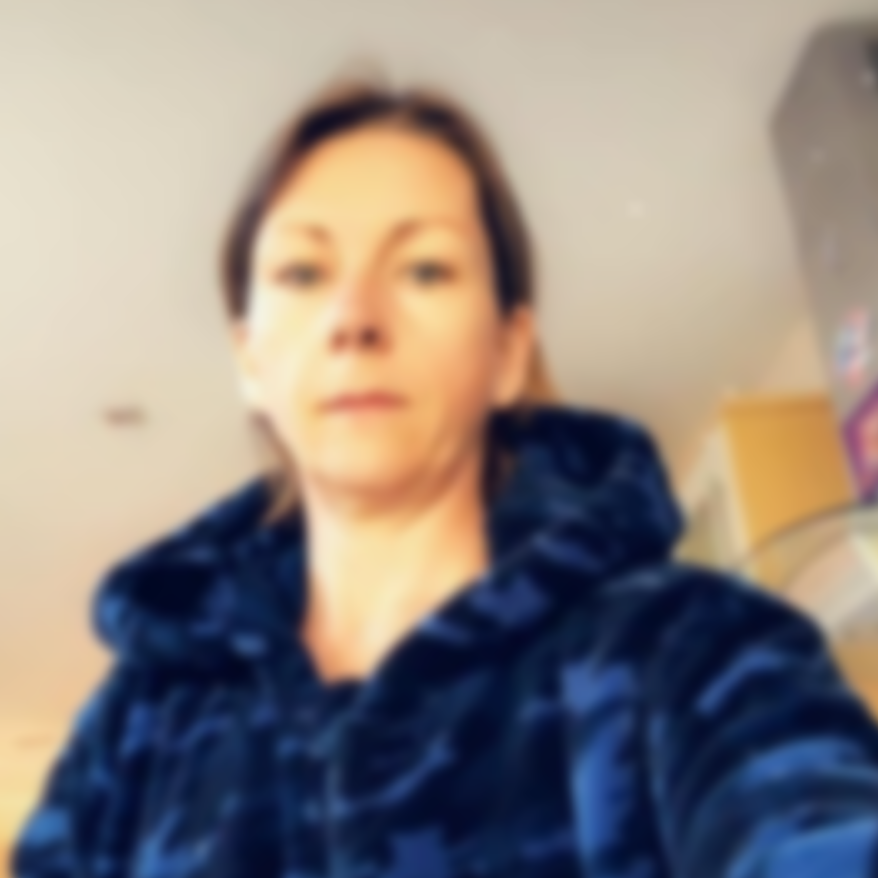
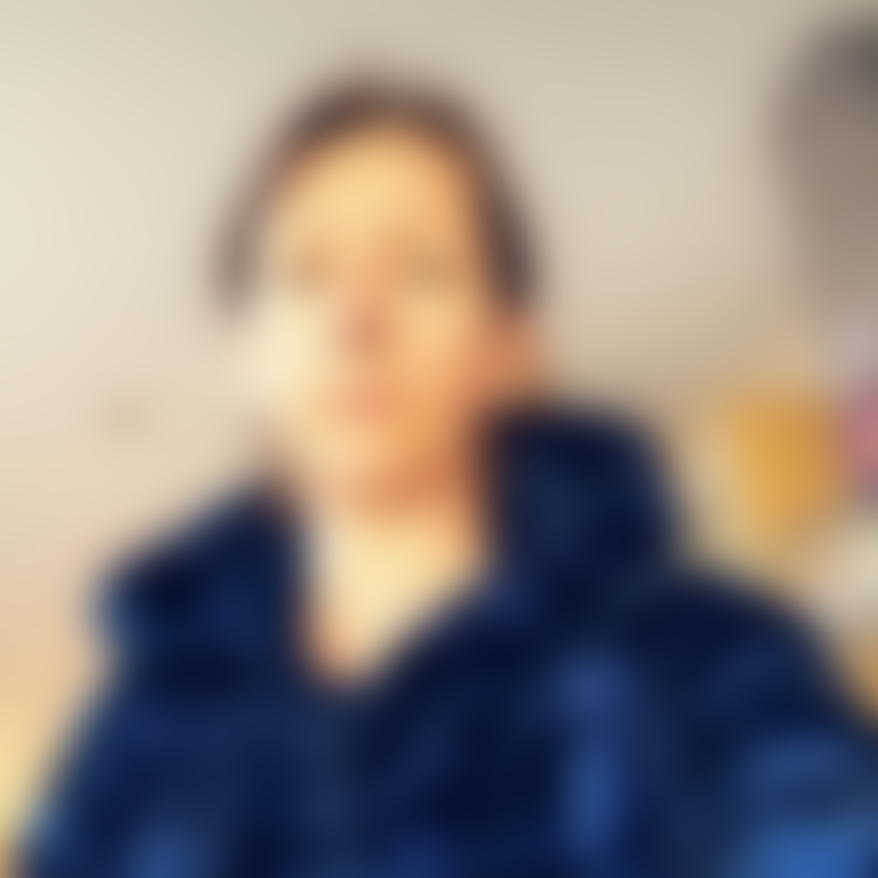
Submission data update
+ images blur

diff --git a/src/calc-pages/Finish.js b/src/calc-pages/Finish.js
@@ -14,14 +14,15 @@ export default function Finish(props) {
         <div>
           Based on the information provided, your body needs around{" "}
           {props.DEE.toLocaleString("en-UK")} calories per day, or{" "}
-          {(props.DEE * 7).toLocaleString("en-UK")} per week to maintain its
+          {(props.DEE * 7).toLocaleString("en-UK")} per week, to maintain its
           current weight.
-        </div>
+        </div>{" "}
         <br />
-        <div>
-          <p>
+        <div className="test">
+          <div>
             To achieve a weekly deficit of 3,500 calories you should aim for:
-          </p>
+          </div>
+          <br />
           <div>
             <div className="data">
               {((props.DEE - 500) * 7).toLocaleString("en-UK")}
@@ -32,7 +33,28 @@ export default function Finish(props) {
             <div className="data">
               {(props.DEE - 500).toLocaleString("en-UK")}
             </div>{" "}
-            calories per day on <em>average</em>.
+            calories per day <em>on average</em>.
+          </div>
+          <br />
+          <div>
+            Using a weekly calorie deficit means you be flexible about what you
+            eat and when you eat it. You can plan lower calorie days to make up
+            for known higher calorie days that go hand in hand with social
+            events and other such higher calorie pressures.
+          </div>
+          <div
+            style={{ display: "flex", alignSelf: "center", padding: "1rem" }}
+          >
+            <a
+              href="https://performancephysique.co.uk/4-weeks-4-kilos/"
+              target="_blank"
+              rel="noopener noreferrer"
+              style={{ all: "unset" }}
+            >
+              <button className="question-option" style={{ border: "unset" }}>
+                Learn more
+              </button>
+            </a>
           </div>
         </div>
       </div>

diff --git a/src/index.css b/src/index.css
@@ -137,8 +137,8 @@
 }
 
 .testimonial-img {
-  border-radius: 50px;
-  height: 100px;
+  border-radius: 25px;
+  height: 50px;
   margin: 0rem;
   width: auto;
 }
@@ -277,7 +277,7 @@
   display: flex;
   flex-direction: column;
   align-items: center;
-  padding: 2rem;
+  padding: 1rem;
   animation: fadein 1s ease-in-out 0.3s both;
 }
 
@@ -368,7 +368,7 @@
   position: relative;
   box-sizing: border-box;
   grid-template-columns: 2fr 1fr;
-  grid-template-rows: 8rem auto auto 7rem;
+  grid-template-rows: 8rem auto auto auto;
   margin: 1rem;
   display: flex;
   justify-content: space-between;
@@ -605,6 +605,14 @@
   font-size: large;
 }
 
+.test {
+  display: flex;
+  flex-direction: column;
+  background-color: var(--black);
+  padding: 2rem;
+  border-radius: 25px;
+}
+
 /* mobile */
 
 @media screen and (max-width: 850px) {
@@ -685,14 +693,6 @@
     width: 100px;
   }
 
-  .result-container {
-    grid-column-start: 1;
-    grid-column-end: -1;
-    display: flex;
-    flex-direction: column;
-    align-items: center;
-  }
-
   .result-container p {
     font-size: 0.8rem;
   }
@@ -705,6 +705,8 @@
     height: 100px;
     width: 200px;
   }
+
+  .small {flex-direction: column;}
 }
 
 /* section animation */

diff --git a/src/calc-pages/Results.js b/src/calc-pages/Results.js
@@ -3,12 +3,9 @@ import { useNavigate } from "react-router-dom";
 
 import axios from "axios";
 
-// const FORMSPARK_FORM_ID = "FUX0nqmK";  //  ALI //
 const FORMSPARK_FORM_ID = "odG1JqtU"; //  ARJ //
 
-// const formSparkUrl = `https://submit-form.com/${FORMSPARK_FORM_ID}`;
-
-const formSparkUrl = null
+const formSparkUrl = `https://submit-form.com/${FORMSPARK_FORM_ID}`;
 
 export default function Results(props) {
   const nav = useNavigate();
@@ -37,6 +34,10 @@ export default function Results(props) {
     sex: props.answers.sex,
     weight: props.answers.weight,
     activity: props.answers.activity,
+    xdataDEE: props.DEE,
+    xdataWEE: props.DEE * 7,
+    xdataDailyDeficit: props.DEE - 500,
+    xdataWeeklyDeficit: props.DEE * 7 - 500,
   };
 
   const [formState, setFormState] = useState(initialFormState);

diff --git a/src/content/Quote.js b/src/content/Quote.js
@@ -1,13 +1,22 @@
 export default function Quote(props) {
   return (
     <>
-      <section className="section dark small" style={{ flexDirection: "row" }}>
+      <section
+        className="section dark small"
+        style={{
+          flexDirection: "row",
+          paddingLeft: "1rem",
+          paddingRight: "1rem",
+        }}
+      >
         <div className="quote-container">
           <h4>
             “This isn’t my top secret method to lose weight,
             <em> this is science! </em>
             Share it with anyone and everyone!”
           </h4>
+
+          <br />
           <h5>
             Arjuna Thiruchelvam - Owner & Head Coach at Performance Physique
           </h5>

diff --git a/src/Calculator.js b/src/Calculator.js
@@ -235,6 +235,7 @@ export default function Calculator(props) {
                   setActiveNavState={setActiveNavState}
                   minimised={minimised}
                   setcalcPage={setcalcPage}
+                  nav={nav}
                 />
               }
             />
